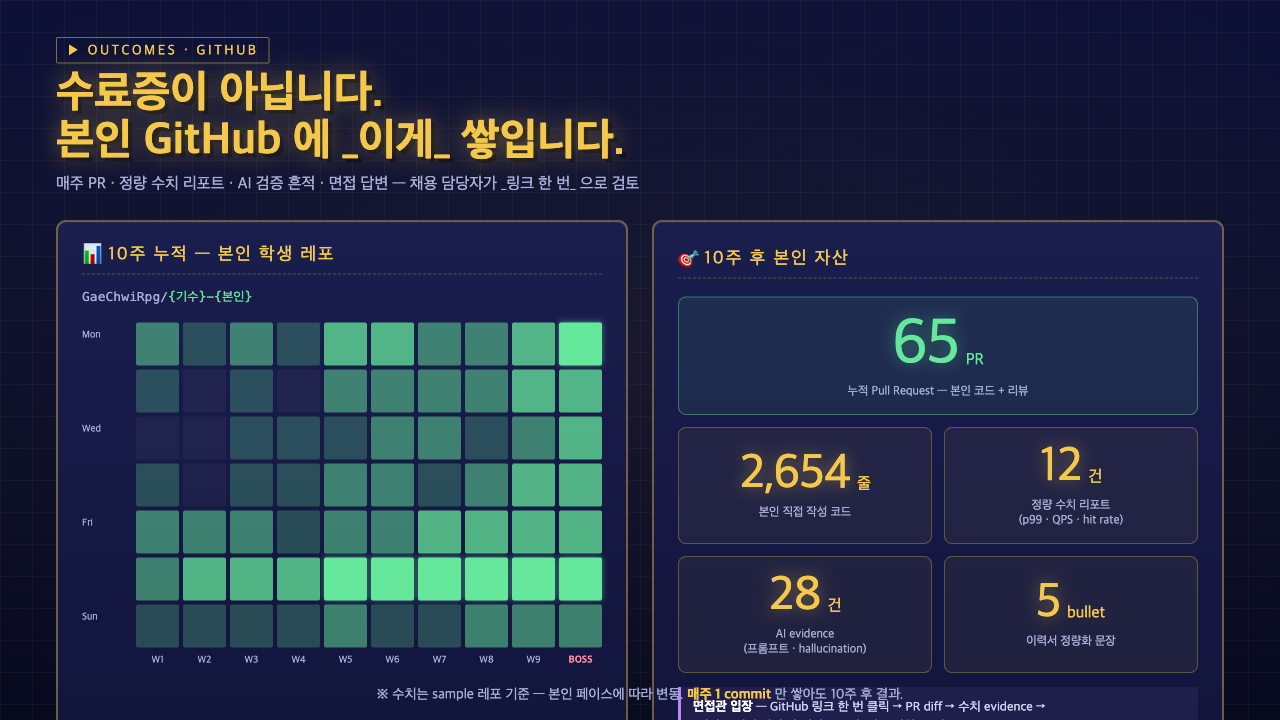
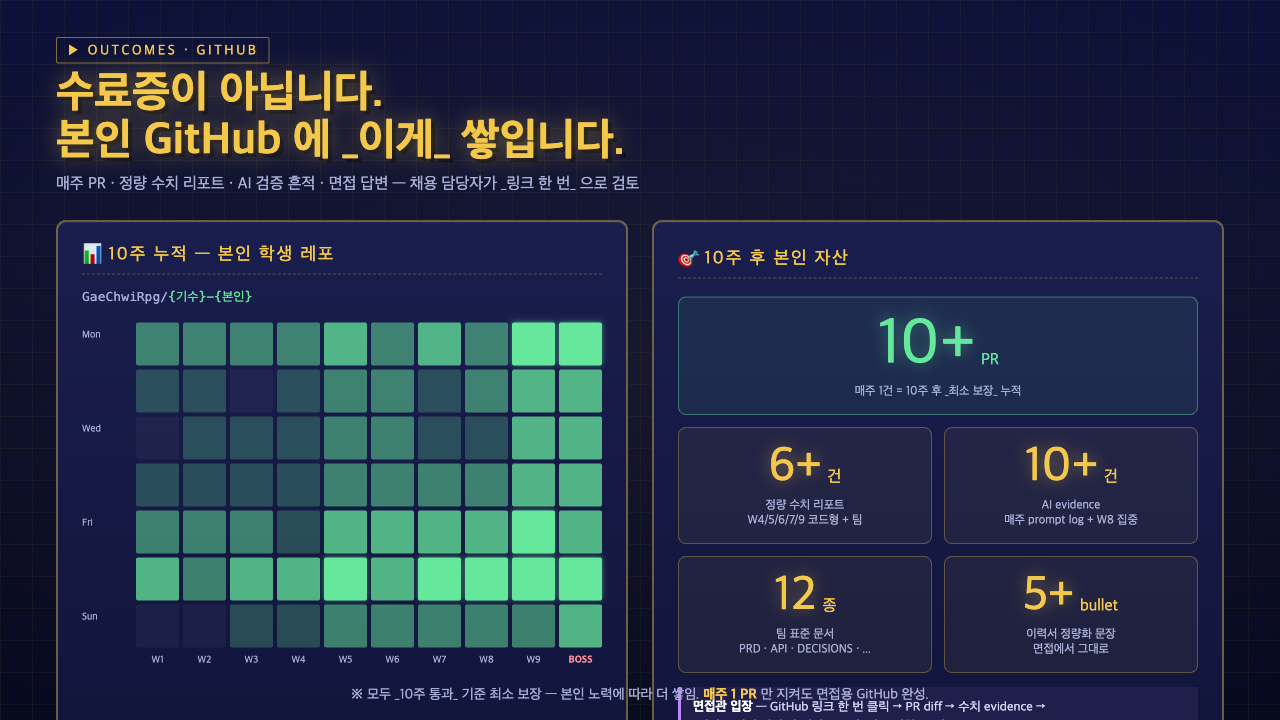
fix(visuals): outcomes 수치 SoT 기반 정정 (65 → 10+)
이전 수치는 임의 sample (65 PR · 2,654 줄 · 28 evidence) — SoT 무관 부정확.
operations.md / 슬라이드 #7 본문 SoT 기준 _최소 보장 누적_ 으로 정정:

- 65 PR        → 10+ PR (매주 1건 × 10주 최소)
- 2,654 줄     → 제거 (코드량은 미션마다 편차 큼)
- 12 정량 리포트 → 6+ 건 (W4/5/6/7/9 코드형 + 팀)
- 28 AI evidence → 10+ 건 (매주 + W8 집중)
- 5 bullet     → 5+ bullet (이력서 정량화)
- 신규: 12 종 팀 표준 문서 (PRD · API · DECISIONS · ...)

footer: "sample 레포 기준" → "10주 통과 기준 최소 보장" 으로 변경.

diff --git a/marketing/visuals/outcomes.html b/marketing/visuals/outcomes.html
@@ -211,24 +211,24 @@
       <div class="ttl">🎯 10주 후 본인 자산</div>
       <div class="counters">
         <div class="counter big">
-          <div><span class="v">65</span><span class="unit"> PR</span></div>
-          <div class="l">누적 Pull Request — 본인 코드 + 리뷰</div>
+          <div><span class="v">10+</span><span class="unit"> PR</span></div>
+          <div class="l">매주 1건 = 10주 후 _최소 보장_ 누적</div>
         </div>
         <div class="counter">
-          <div><span class="v">2,654</span><span class="unit"> 줄</span></div>
-          <div class="l">본인 직접 작성 코드</div>
+          <div><span class="v">6+</span><span class="unit"> 건</span></div>
+          <div class="l">정량 수치 리포트<br>W4/5/6/7/9 코드형 + 팀</div>
         </div>
         <div class="counter">
-          <div><span class="v">12</span><span class="unit"> 건</span></div>
-          <div class="l">정량 수치 리포트<br>(p99 · QPS · hit rate)</div>
+          <div><span class="v">10+</span><span class="unit"> 건</span></div>
+          <div class="l">AI evidence<br>매주 prompt log + W8 집중</div>
         </div>
         <div class="counter">
-          <div><span class="v">28</span><span class="unit"> 건</span></div>
-          <div class="l">AI evidence<br>(프롬프트 · hallucination)</div>
+          <div><span class="v">12</span><span class="unit"> 종</span></div>
+          <div class="l">팀 표준 문서<br>PRD · API · DECISIONS · ...</div>
         </div>
         <div class="counter">
-          <div><span class="v">5</span><span class="unit"> bullet</span></div>
-          <div class="l">이력서 정량화 문장</div>
+          <div><span class="v">5+</span><span class="unit"> bullet</span></div>
+          <div class="l">이력서 정량화 문장<br>면접에서 그대로</div>
         </div>
       </div>
       <div class="verdict">
@@ -237,7 +237,7 @@
     </div>
   </div>
 
-  <div class="foot">※ 수치는 sample 레포 기준 — 본인 페이스에 따라 변동. <b>매주 1 commit</b> 만 쌓아도 10주 후 결과.</div>
+  <div class="foot">※ 모두 _10주 통과_ 기준 최소 보장 — 본인 노력에 따라 더 쌓임. <b>매주 1 PR</b> 만 지켜도 면접용 GitHub 완성.</div>
 </div>
 
 <script>
